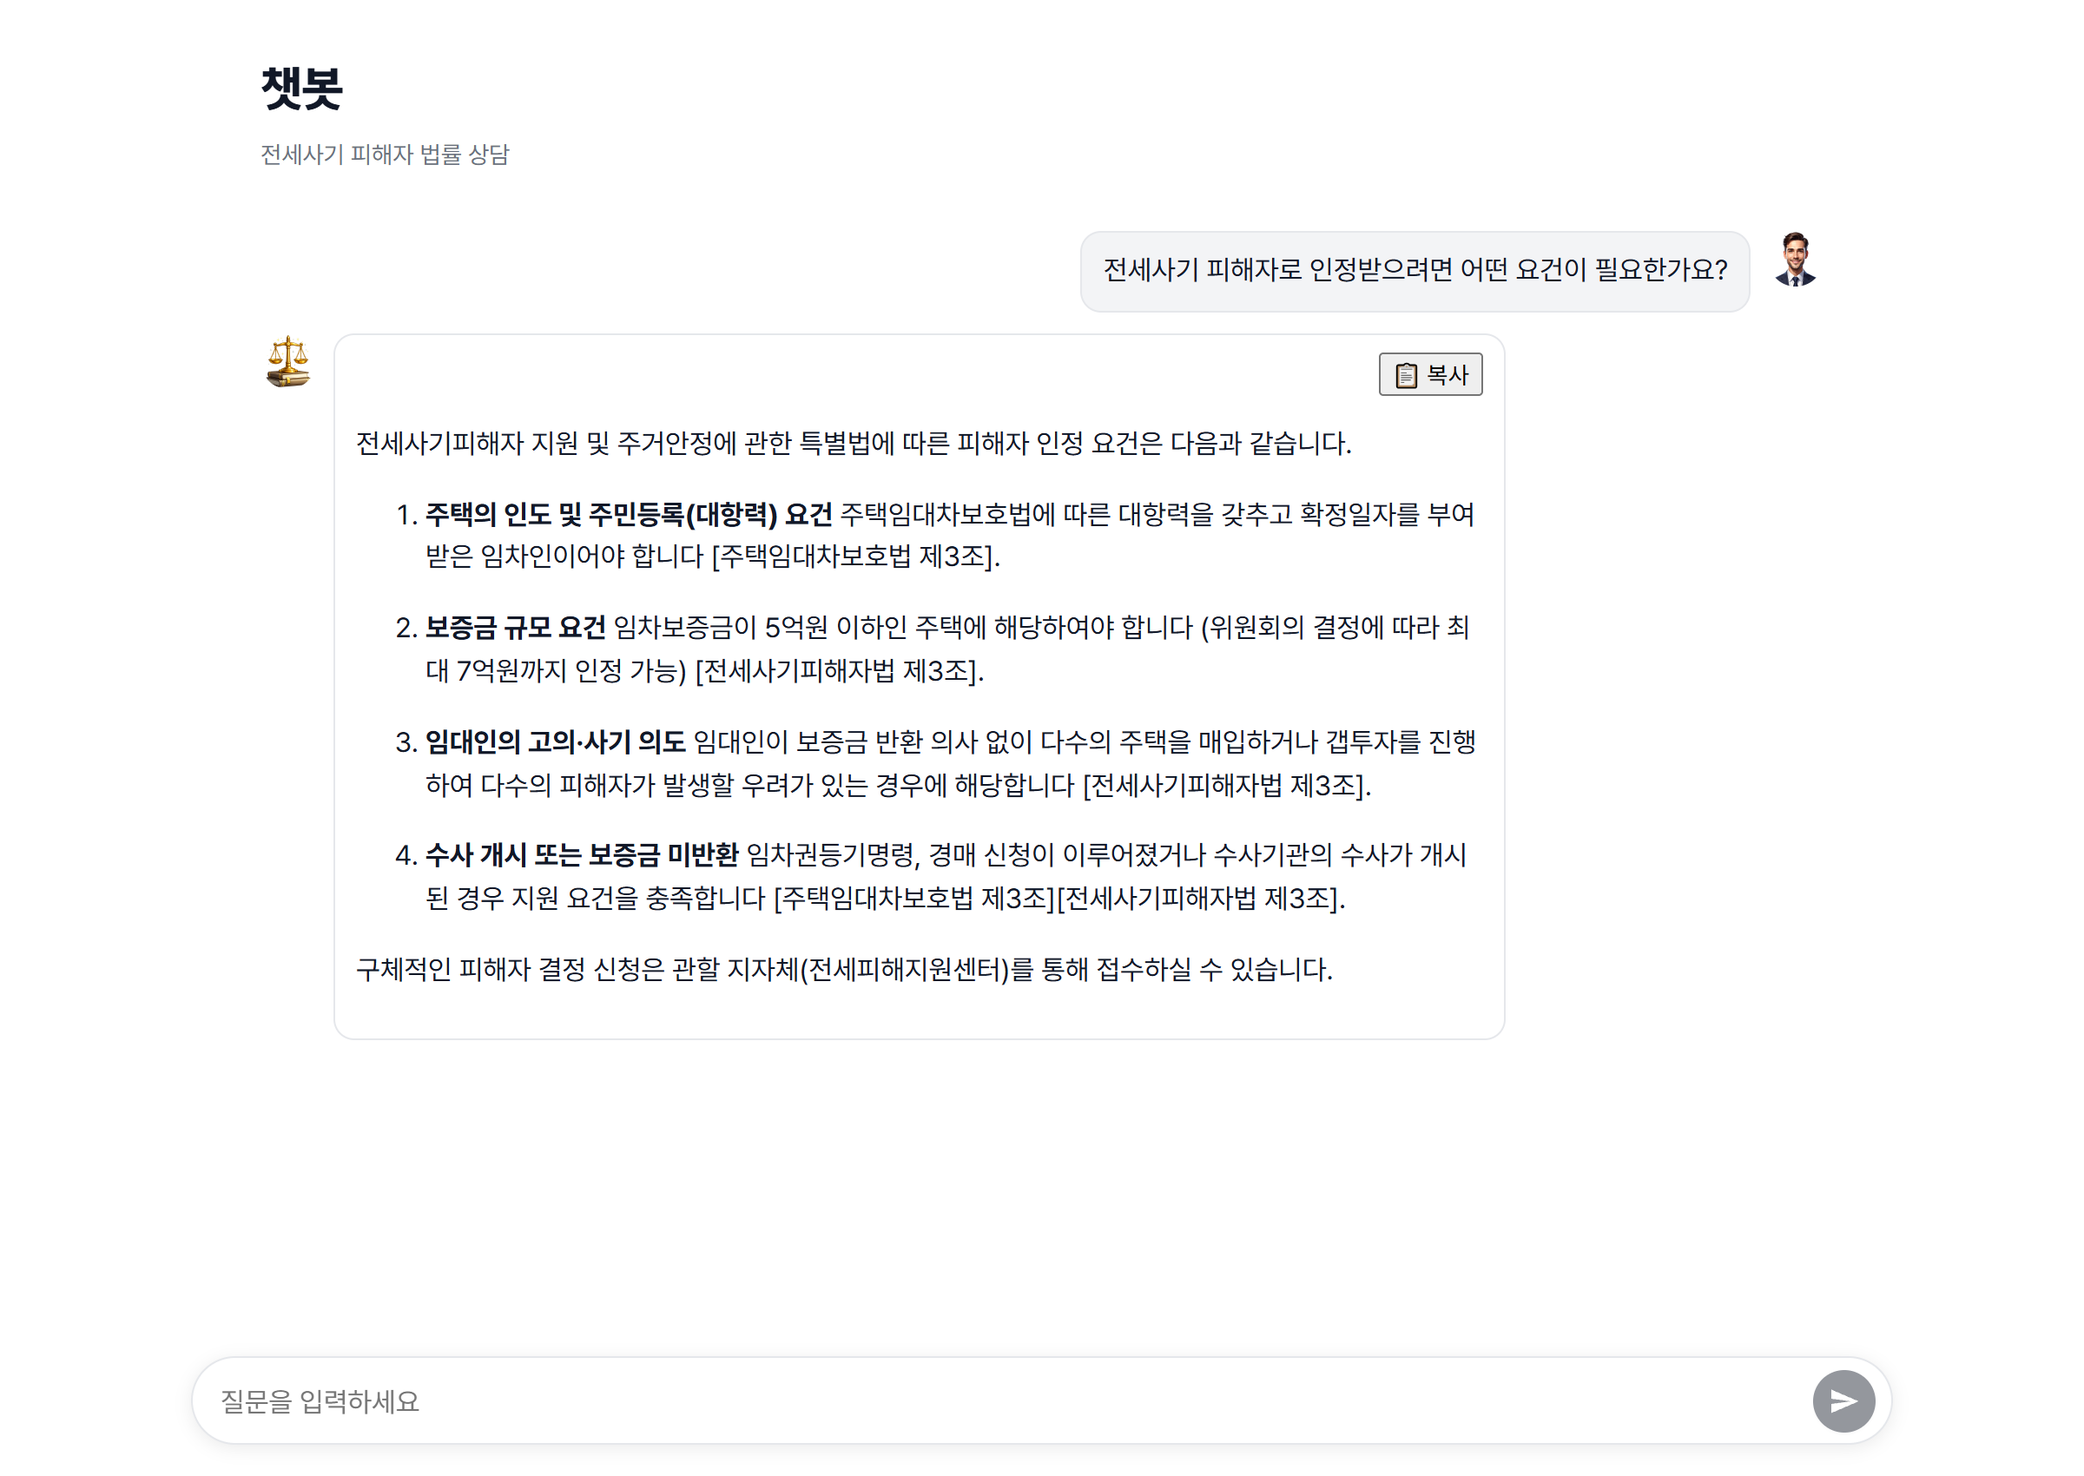
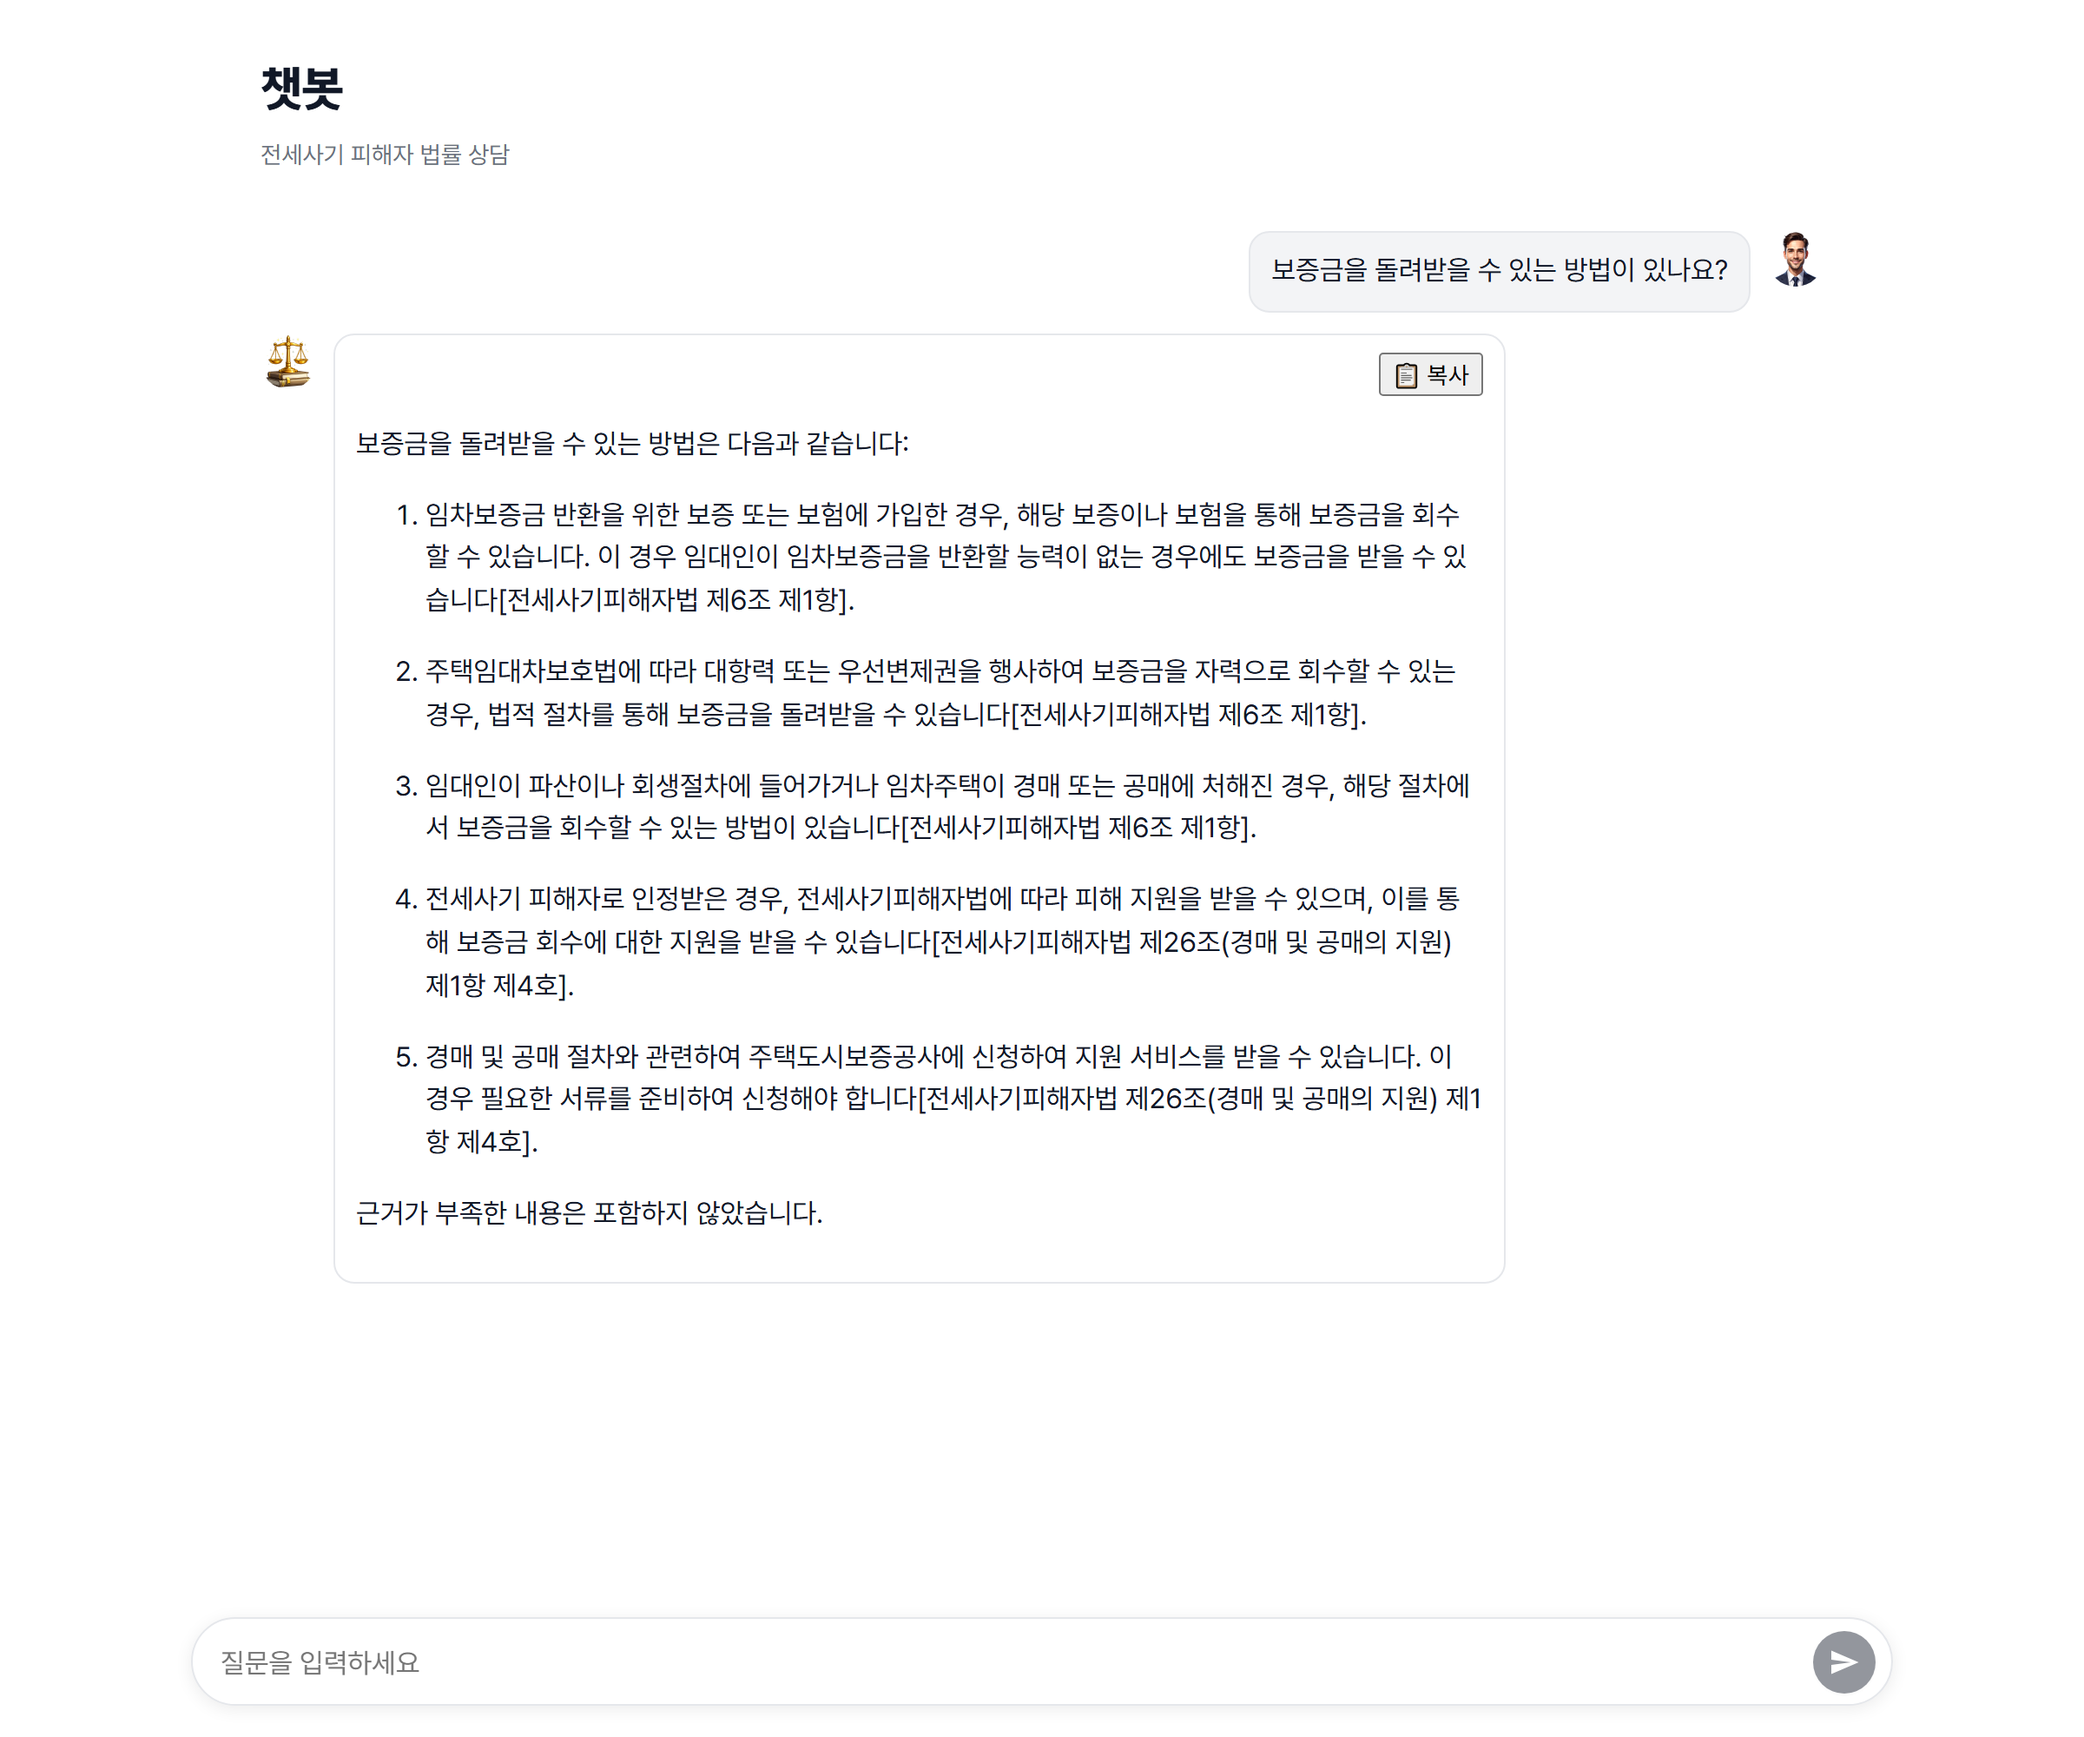
fix: Local 실행 설정과 키워드 사전 경로 수정
- frontend/.env.example: VITE_API_BASE_URL을 /api로 변경 (기존 값은 /api 접두사가 빠지고 CORS 대상도 아니어서 Local에서 실패)
- chain_builder: keyword_dictionary.json을 backend/data에서 읽도록 경로 수정 (기존에는 backend/app/data를 찾아 매번 경고만 남김)
- docs: 상담 화면 스크린샷을 현재 데이터로 실행한 화면으로 교체

diff --git a/backend/app/service/chain_builder.py b/backend/app/service/chain_builder.py
@@ -20,7 +20,8 @@ logger = get_logger("chatbot-law-prod.chain_builder")
 # Keyword dictionary (optional)
 # -----------------------------------------------------------------------------
 def load_keyword_dictionary() -> dict:
-    data_path = Path(__file__).resolve().parents[1] / "data" / "keyword_dictionary.json"
+    # backend/data/keyword_dictionary.json (이 파일은 backend/app/service/ 아래에 있음)
+    data_path = Path(__file__).resolve().parents[2] / "data" / "keyword_dictionary.json"
 
     if not data_path.exists():
         logger.warning("keyword_dictionary.json not found: %s", data_path)
